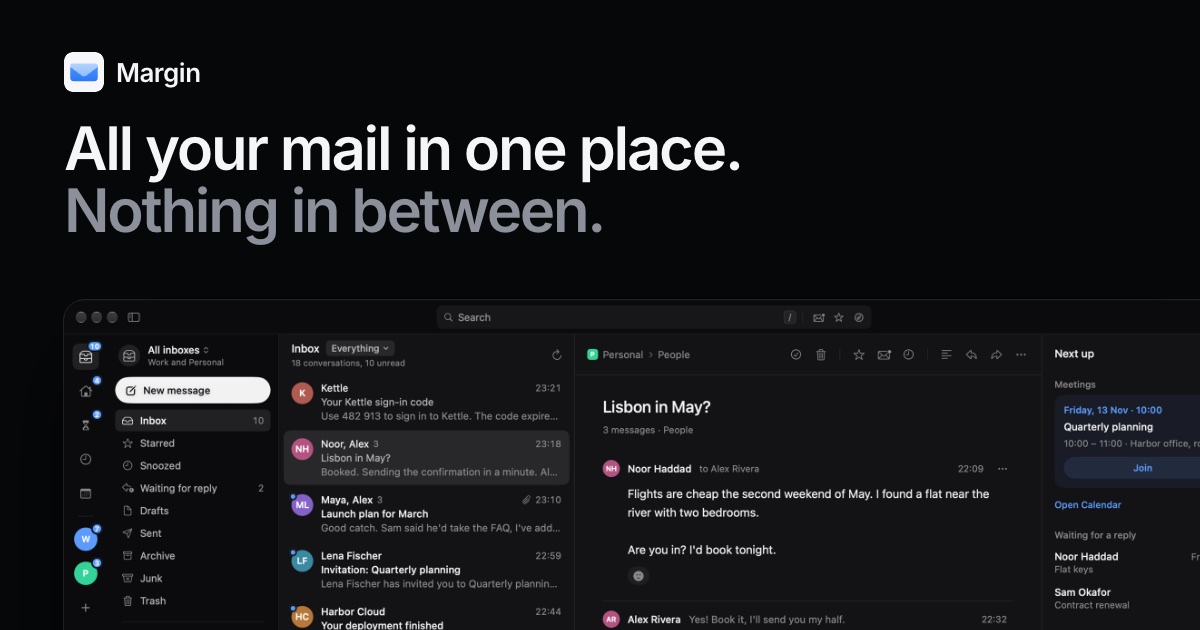
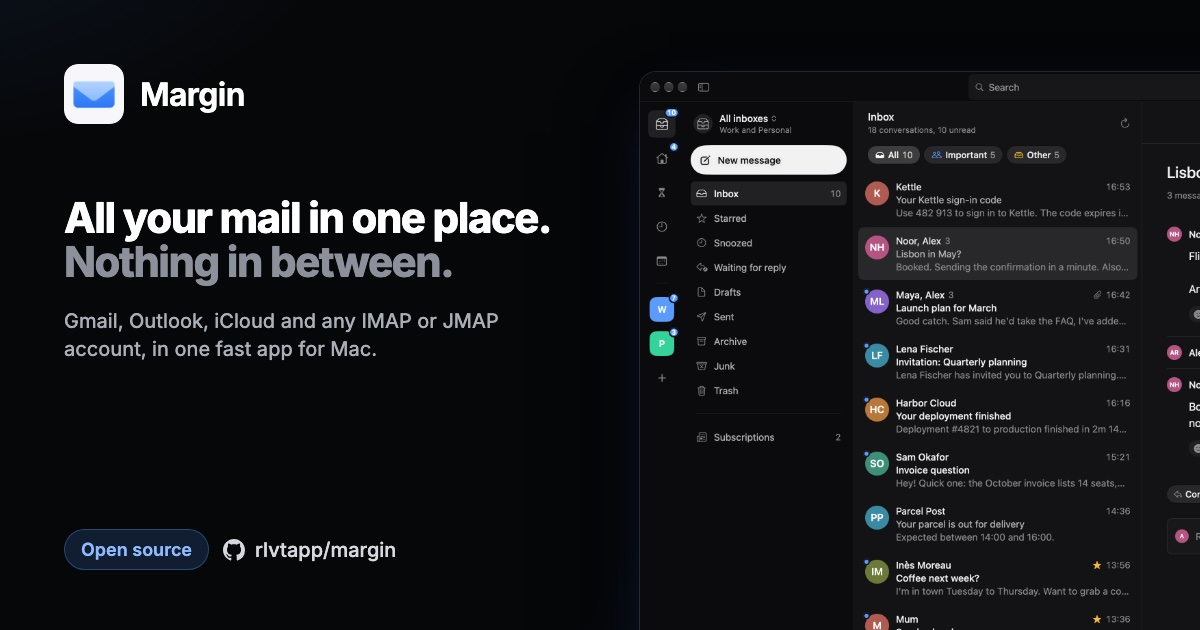
chore(branding): refresh website and GitHub share previews

diff --git a/docs/website.md b/docs/website.md
@@ -91,7 +91,10 @@ pnpm types:check
   buttons at the top left are grey. The pictures have square corners; the page rounds them to
   the window's own corners (`.showcase-window`).
   `share.jpg` is the 1200×630 preview card for links, and `apple-touch-icon.png` the home-screen
-  icon.
+  icon. The card is dark: the icon, the hero headline and lead, "Open source" with the GitHub
+  repository, and the dark hero picture on the right. `.github/social-preview.png` is the same
+  card at 1280×640 for the repository's social preview on GitHub. When the hero picture is
+  retaken, redo both from it.
 - The icon (`site/public/icon.svg`) is the default app icon from `Apps/Shared/AppIcon.icon`.
 
 ## Keeping the privacy policy true
